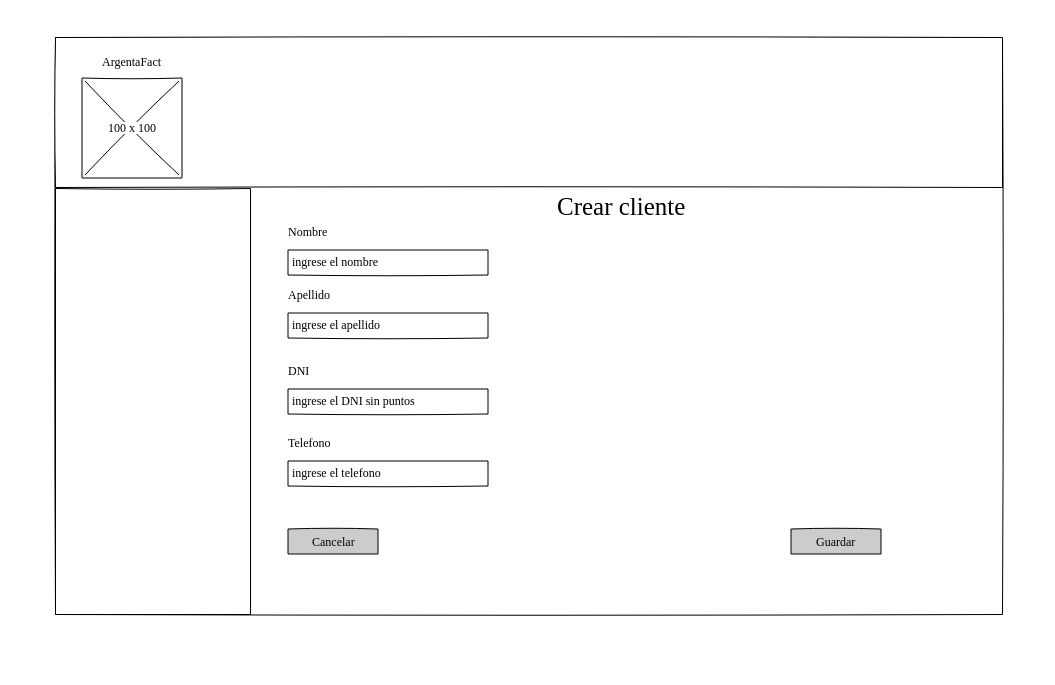
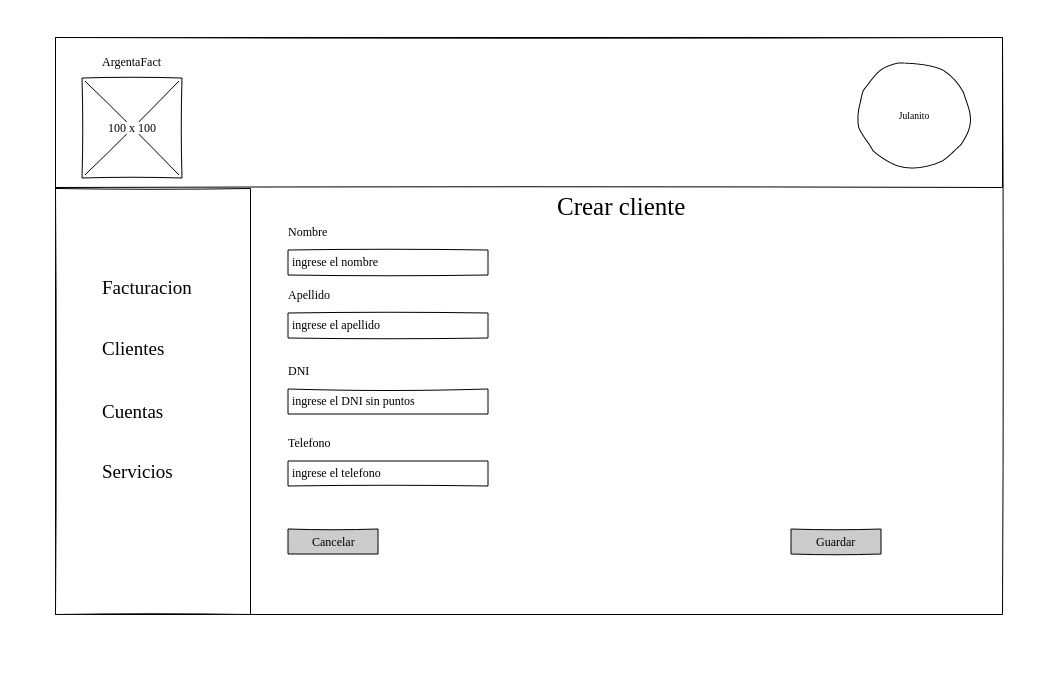
wireframe facturacion

diff --git a/docs/dp-iteracion-1.md b/docs/dp-iteracion-1.md
@@ -142,11 +142,25 @@ Comprobante "1" --> "1" HistoricoFiscal
 ```
 
 # Wireframe y caso de uso
+
+## Inicio de sesion
+![Inicio de sesion](img/inicio_de_sesion.png)
+## Dashboard
+![Dashboard](img/dasboard_.png)
+## Facturacion
+### cargar factura
+![Facturaci n](img/facturacion.png)
+### preview factura
+![Previsual Facturacion](img/preview_facturacion.png)
+### formato pdf
+![Formato PDF](img/formato_pdf.png)
 ## Gestion clientes
 ### Listar cliente
 ![img/listado_de_clientes.png](img/listado_de_clientes.png)
 ### Crear cliente
 ![img/crear_cliente.png](img/crear_cliente.png)
+
+
 # Backlog de iteraciones
 
 # Tareas
